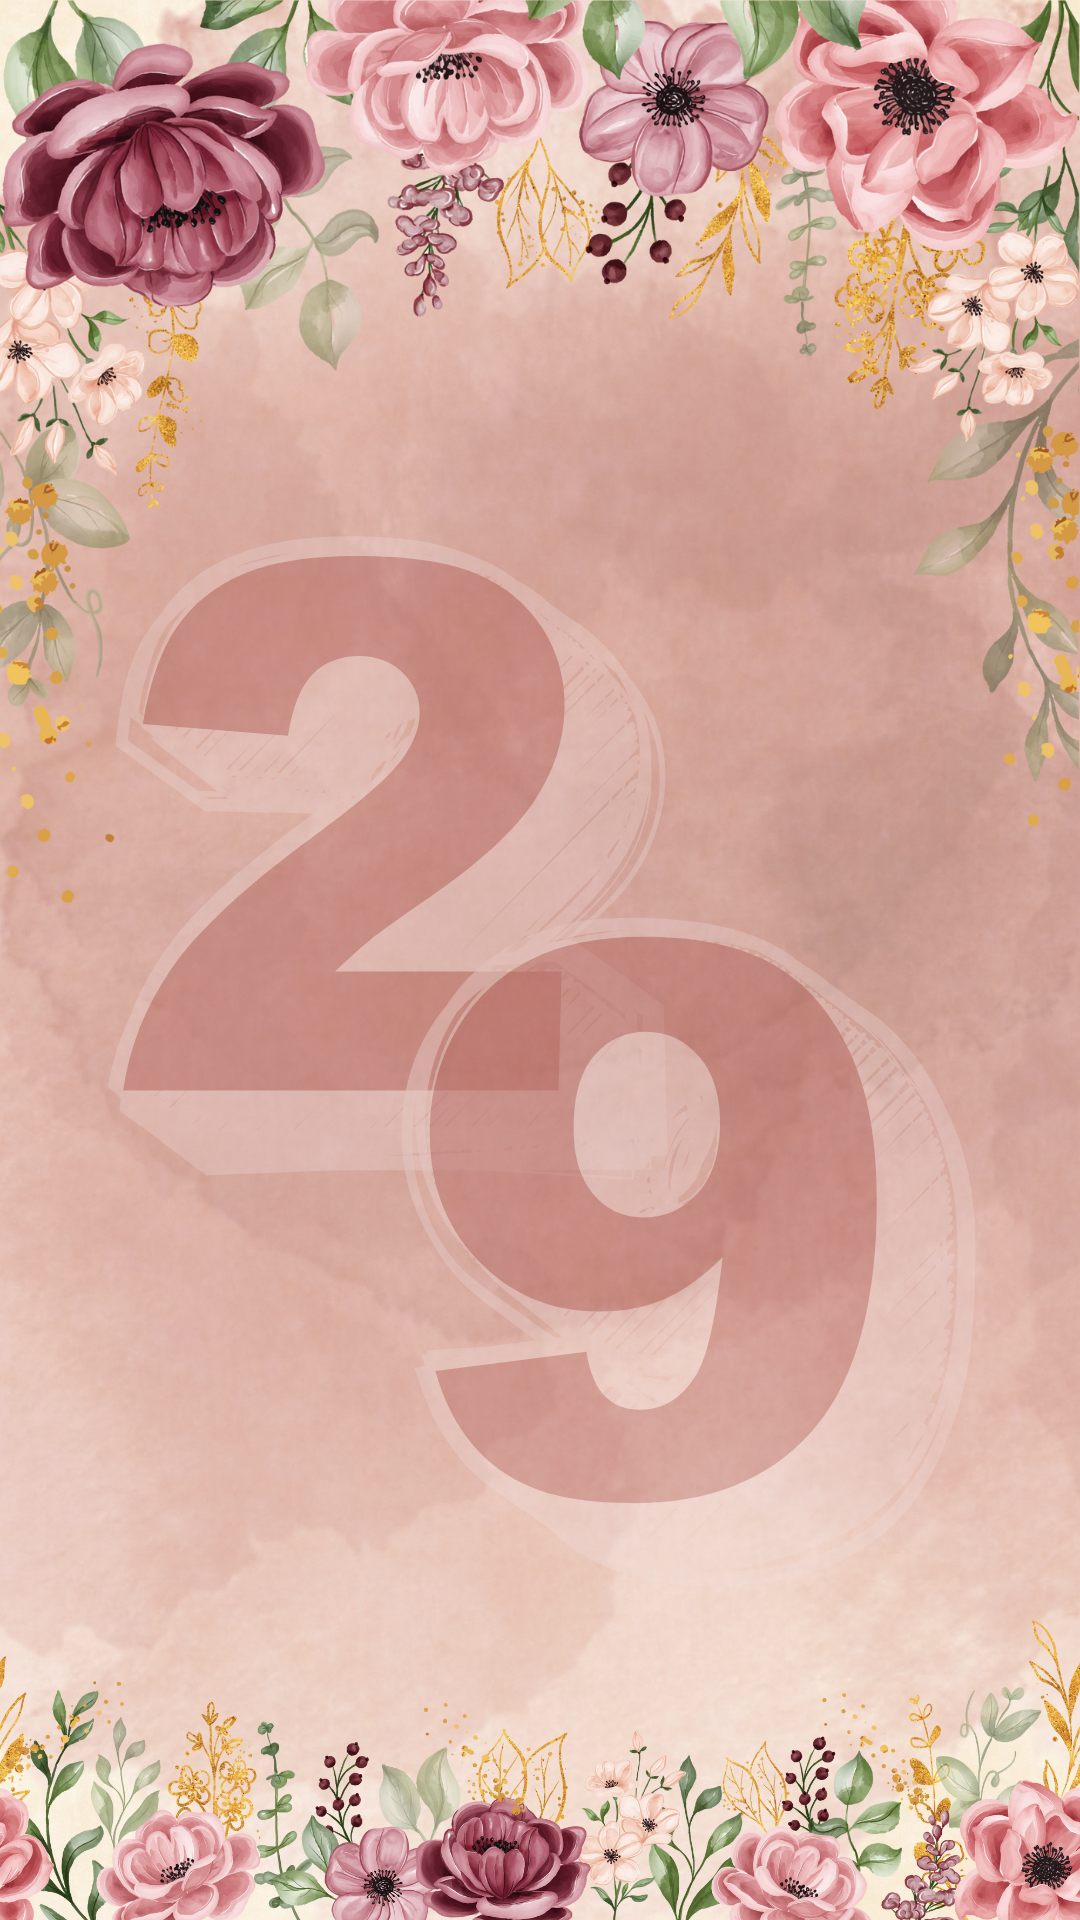
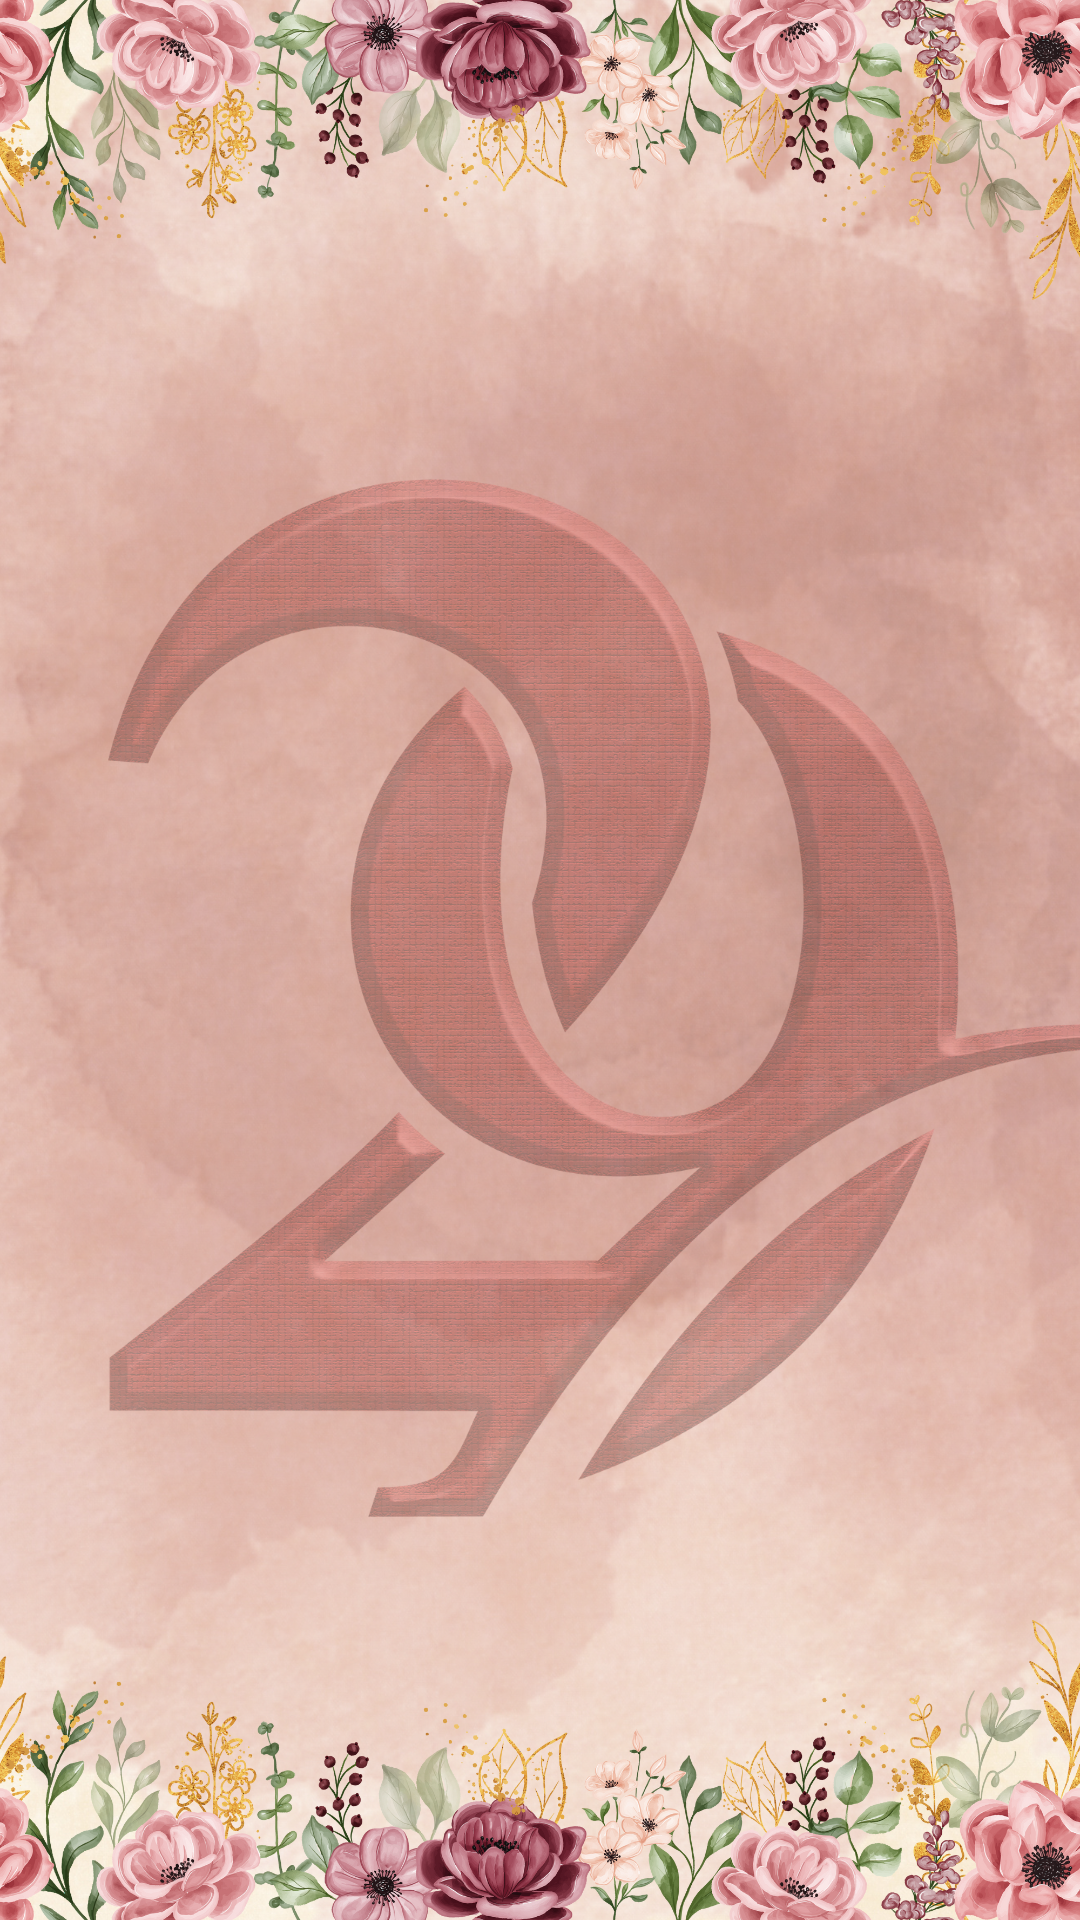
ganti finale

diff --git a/undanganhaflah/index.html b/undanganhaflah/index.html
@@ -377,6 +377,9 @@
     <h2 class="font-esthetic" style="font-size: 2rem;">Wassalamualaikum Warahmatullahi Wabarakatuh</h2>
     <h2 class="font-arabic pt-4" style="font-size: 2rem;">اَلْحَمْدُ لِلّٰهِ رَبِّ الْعٰلَمِيْنَۙ</h2>
     <hr class="my-3"/>
+    <button class="btn btn-light shadow rounded-4 mt-3 mx-auto" onclick="window.location.href='https://forms.gle/Jm3kgcj6Sz5dZRUg6'" type="button">
+      <i class="fa-solid fa-envelope-open fa-bounce me-2"></i>RSVP Here!
+    </button>
     <div class="row align-items-center justify-content-between flex-column pb-3">
       <div class="col-auto">
         <small>Build with<i class="fa-solid fa-heart mx-1"></i>Addakwa</small>

diff --git a/undanganhaflah/public/index.html b/undanganhaflah/public/index.html
@@ -377,6 +377,9 @@
     <h2 class="font-esthetic" style="font-size: 2rem;">Wassalamualaikum Warahmatullahi Wabarakatuh</h2>
     <h2 class="font-arabic pt-4" style="font-size: 2rem;">اَلْحَمْدُ لِلّٰهِ رَبِّ الْعٰلَمِيْنَۙ</h2>
     <hr class="my-3"/>
+    <button class="btn btn-light shadow rounded-4 mt-3 mx-auto" onclick="window.location.href='https://forms.gle/Jm3kgcj6Sz5dZRUg6'" type="button">
+      <i class="fa-solid fa-envelope-open fa-bounce me-2"></i>RSVP Here!
+    </button>
     <div class="row align-items-center justify-content-between flex-column pb-3">
       <div class="col-auto">
         <small>Build with<i class="fa-solid fa-heart mx-1"></i>Addakwa</small>
